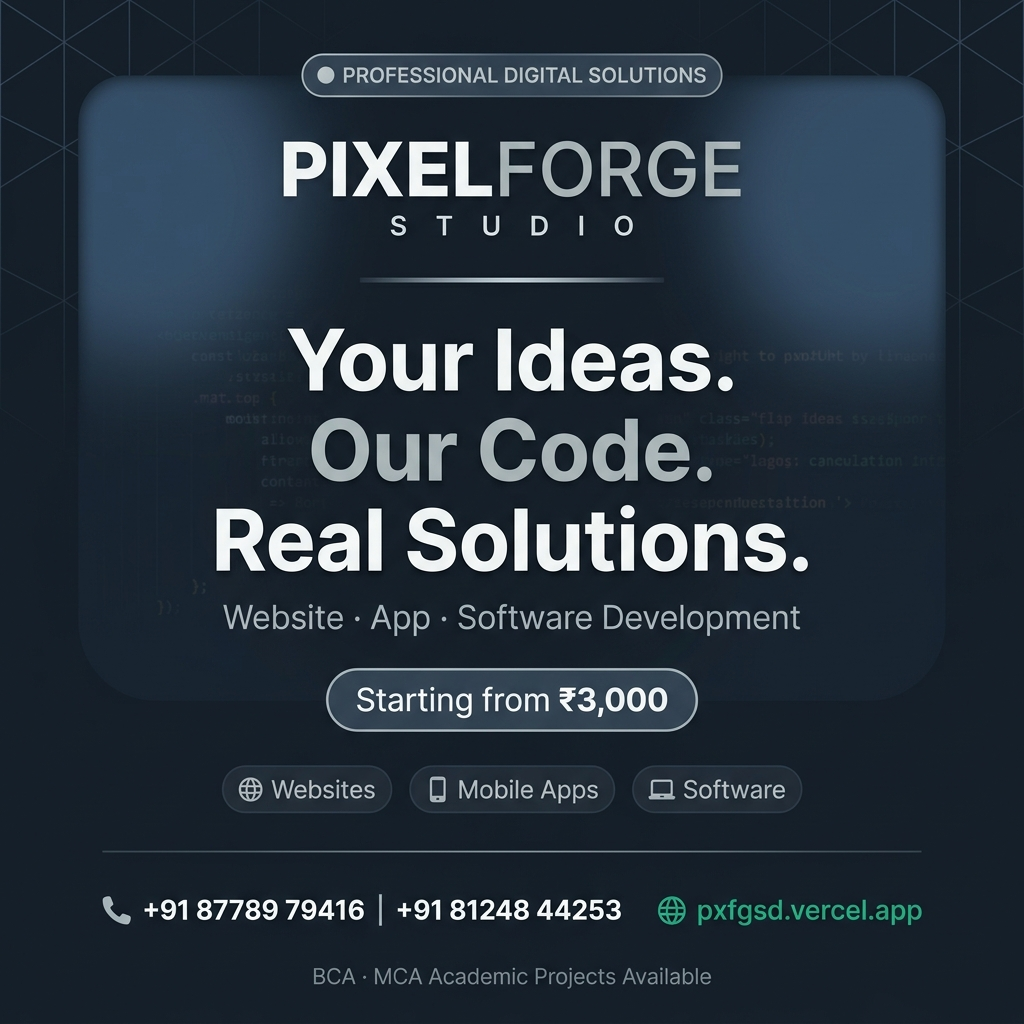
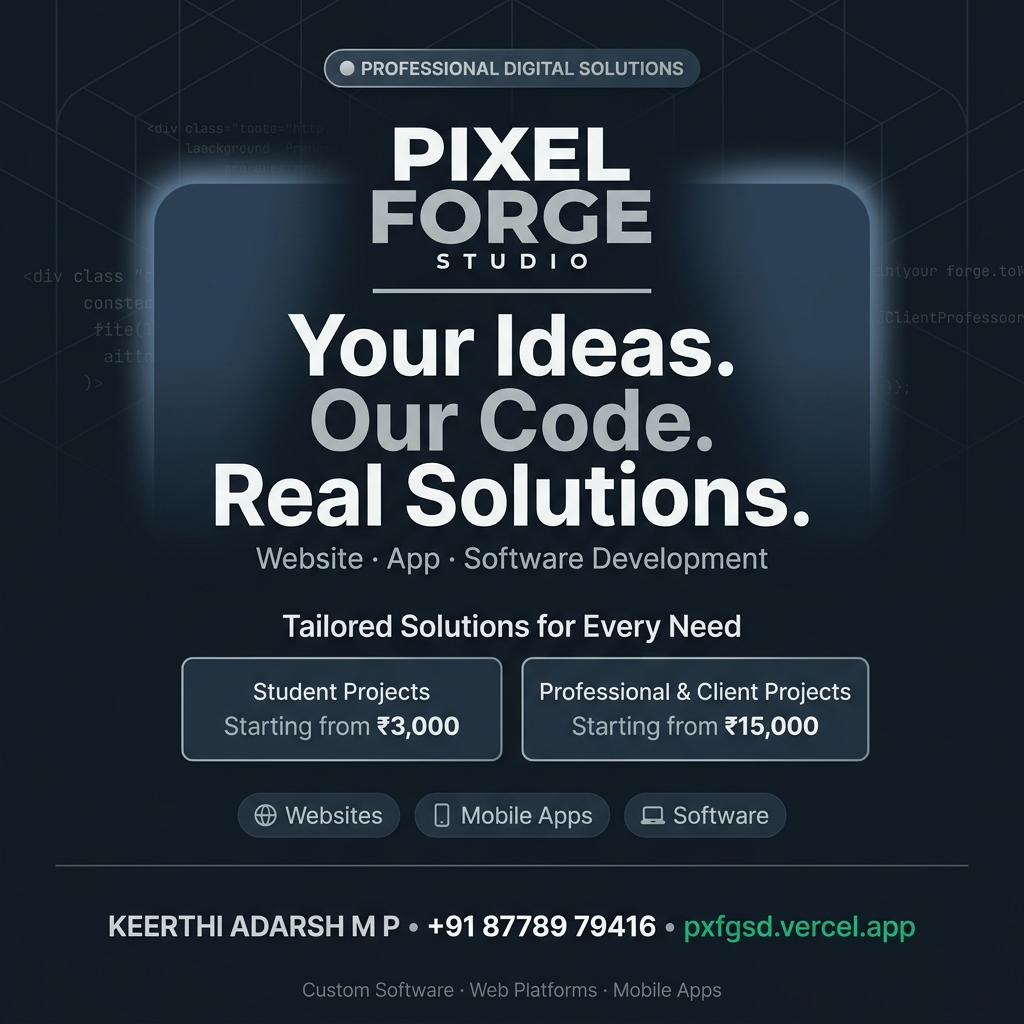
feat: update hero section and poster with Tailored Solutions for Every Need (Student ₹3,000 & Client ₹15,000)

Changed region(s): [[0.0625, 0.0312, 0.9375, 0.5625], [0.1875, 0.5938, 0.8438, 0.8438], [0.0938, 0.875, 0.9062, 0.9688]]

diff --git a/src/components/public/HeroSection.tsx b/src/components/public/HeroSection.tsx
@@ -66,15 +66,38 @@ export default function HeroSection({ settings }: HeroSectionProps) {
                 "Custom digital solutions for businesses, shops, individuals and students. Evolving bold concepts into high-performance software, modern mobile apps, and scalable web platforms."}
             </p>
 
-            {/* Starting Price Pill */}
-            <div className="inline-flex items-center gap-2.5 px-4 py-2 rounded-lg bg-[#2E4053]/50 border border-[#D5DBDB]/15 mb-8">
-              <Sparkles className="w-4 h-4 text-[#D5DBDB]" />
-              <span className="text-xs sm:text-sm text-[#AAB7B8]">
-                Professional Digital Solutions —{" "}
-                <span className="text-[#F4F6F6] font-bold">
-                  Starting from {formatCurrency(startingPrice)}
+            {/* Tailored Solutions Pricing Block */}
+            <div className="p-3.5 sm:p-4 rounded-2xl bg-[#2E4053]/50 border border-[#D5DBDB]/15 mb-8 w-full max-w-xl backdrop-blur-sm">
+              <div className="flex items-center gap-2 mb-2.5">
+                <Sparkles className="w-3.5 h-3.5 text-[#D5DBDB]" />
+                <span className="text-xs font-bold uppercase tracking-wider text-[#D5DBDB]">
+                  Tailored Solutions for Every Need
                 </span>
-              </span>
+              </div>
+              <div className="grid grid-cols-1 sm:grid-cols-2 gap-2.5">
+                <a
+                  href="#academic"
+                  className="p-3 rounded-xl bg-[#1C2833]/80 border border-[#D5DBDB]/10 hover:border-[#D5DBDB]/30 transition-all flex flex-col justify-between group"
+                >
+                  <span className="text-xs font-semibold text-[#D5DBDB] group-hover:text-[#F4F6F6] transition-colors">
+                    Student Projects
+                  </span>
+                  <span className="text-xs text-[#AAB7B8] mt-1">
+                    Starting from <span className="text-[#F4F6F6] font-bold text-sm">₹3,000</span>
+                  </span>
+                </a>
+                <a
+                  href="#business-solutions"
+                  className="p-3 rounded-xl bg-[#1C2833]/80 border border-[#D5DBDB]/10 hover:border-[#D5DBDB]/30 transition-all flex flex-col justify-between group"
+                >
+                  <span className="text-xs font-semibold text-[#D5DBDB] group-hover:text-[#F4F6F6] transition-colors">
+                    Professional &amp; Client Projects
+                  </span>
+                  <span className="text-xs text-[#AAB7B8] mt-1">
+                    Starting from <span className="text-[#F4F6F6] font-bold text-sm">₹15,000</span>
+                  </span>
+                </a>
+              </div>
             </div>
 
             {/* CTAs */}
